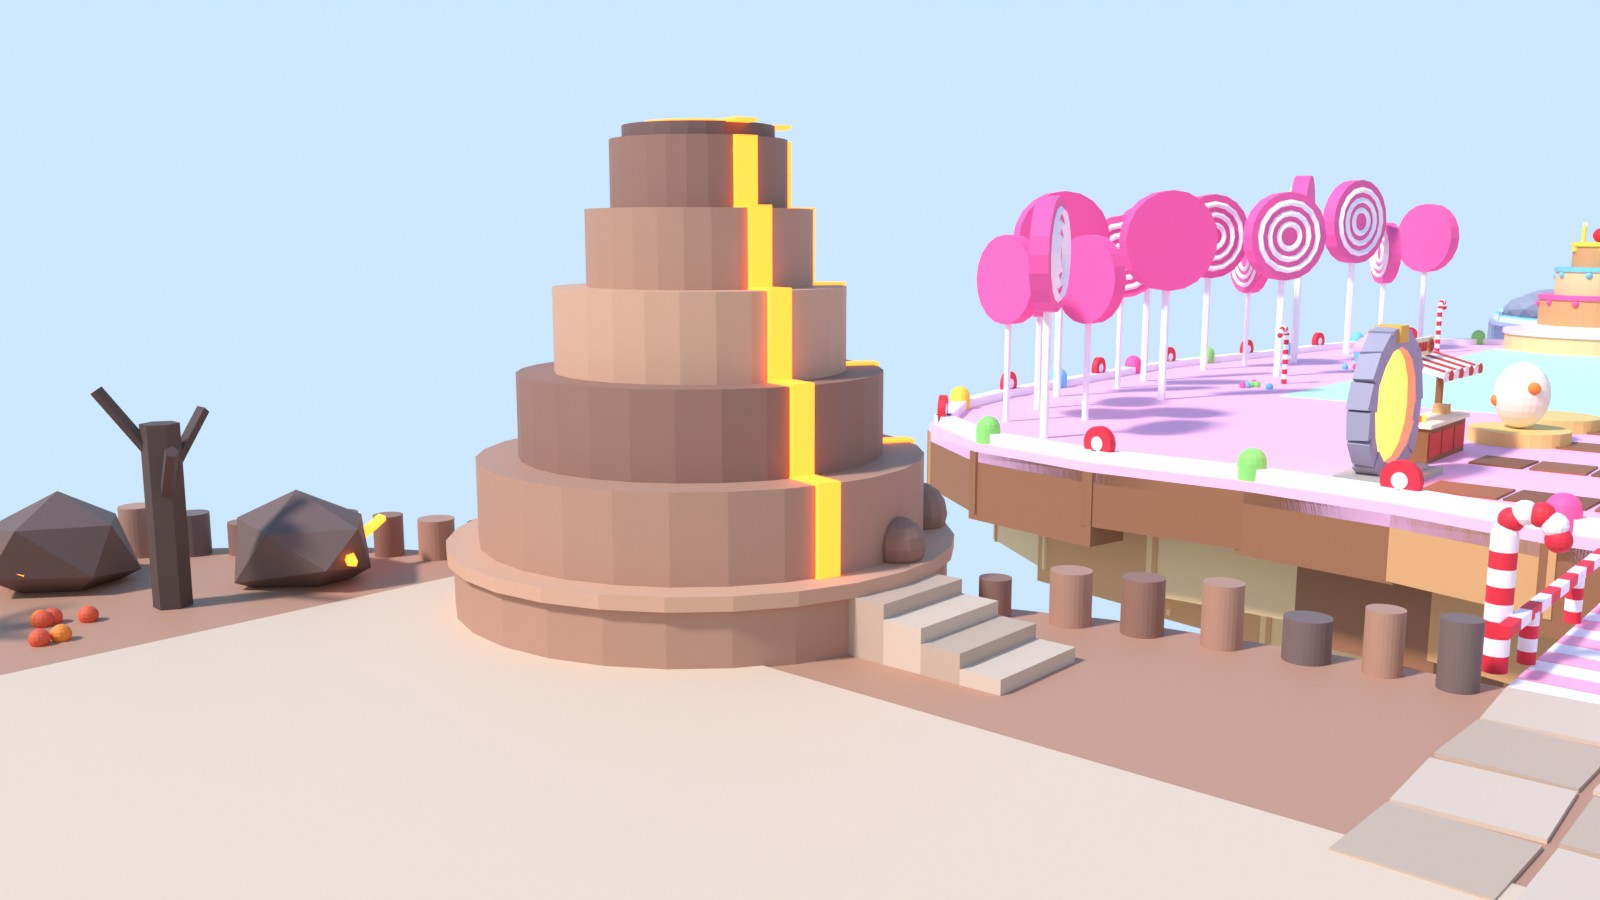
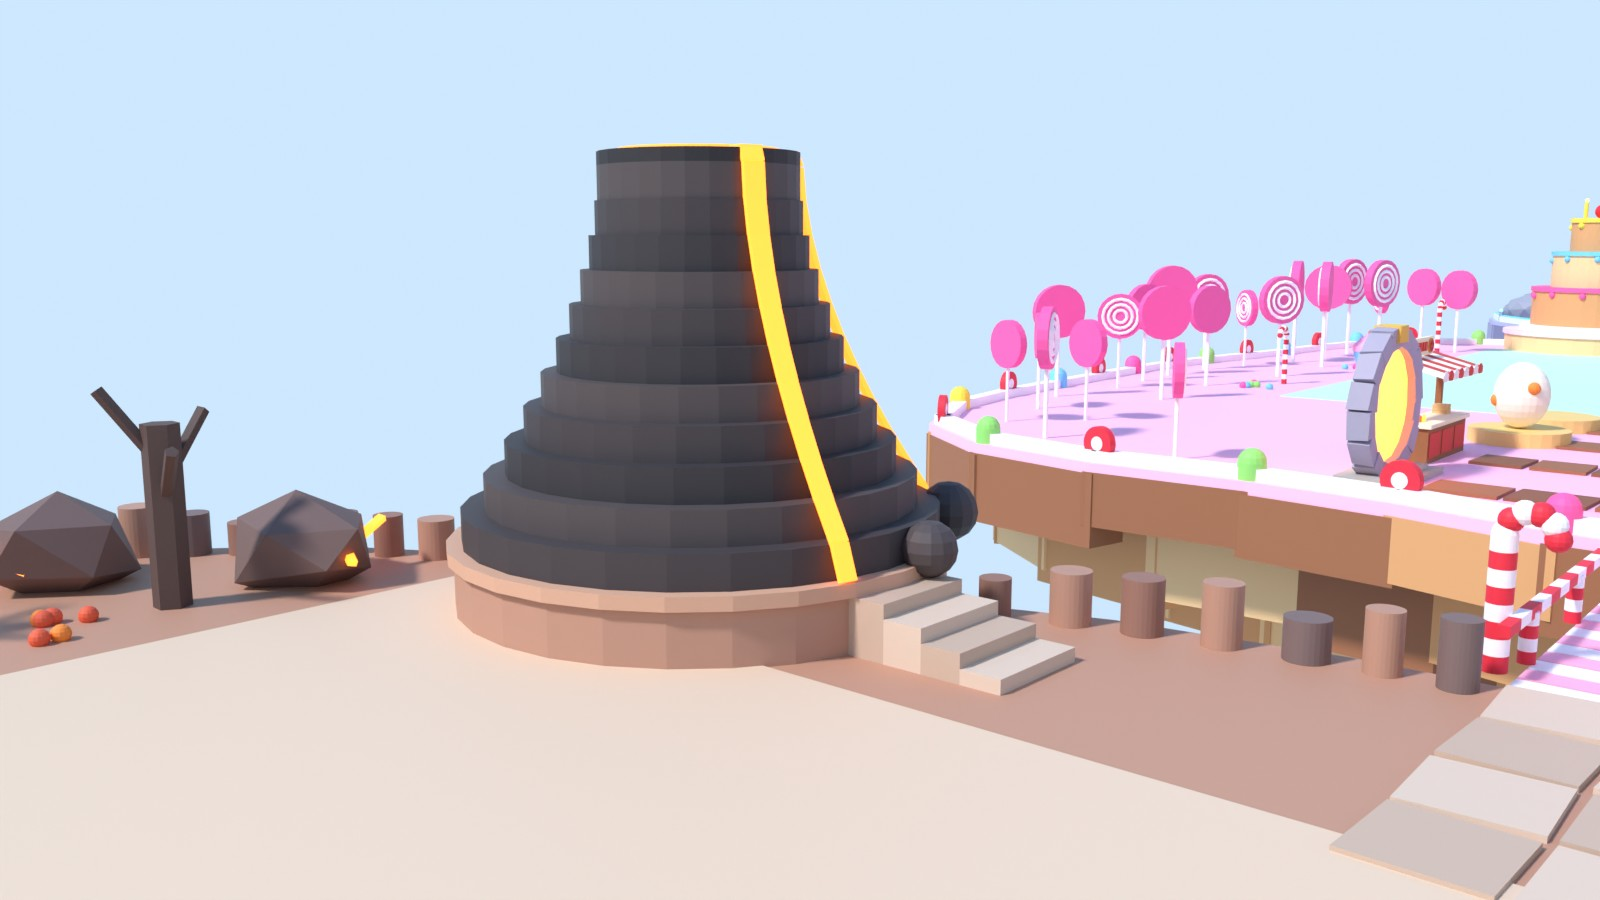
Turn the volcano landmark into a dark basalt cone with lava streams and smoke (#47)
Claude-Session: https://claude.ai/code/session_01ETPm5RE1JcG17QkWSNLqSt

diff --git a/docs/pc-todo.md b/docs/pc-todo.md
@@ -1206,3 +1206,12 @@ Klippenblöcke einer Schicht haben jetzt gestaffelte Oberkanten und minimal vers
 - [ ] Aus der Ferne (z. B. von der Spawn-Insel oder einer Brücke) auf die Nachbarinseln schauen: Felsringe flackern nicht.
 - [ ] Feld (Welt 1–7, Furchen auf dem Bauernhof), Wegplatten, Teich mit Bach und Lava-Risse (Vulkan) flackern auch aus der Ferne nicht.
 - [ ] Optik sonst unverändert: Klippe wirkt nicht stufig, Wegplatten/Teich stehen nicht sichtbar hoch, Figuren laufen normal über Weg und Feld.
+
+## #47 Vulkan als dunkler Basaltkegel
+
+Das Vulkan-Wahrzeichen (Welt 5) ist jetzt ein zulaufender Kegel aus 11 dunklen Basaltscheiben (konkave Flanke, breiter Kraterrand), drei Neon-Lavaströme laufen über die Kanten bis zum Boden, die Kraterlava bleibt, aus dem Krater steigt Rauch (ParticleEmitter am unsichtbaren Teil `VolcanoSmoke`). Vorschau: `assets/previews/islands/World5_Landmark.jpg`.
+
+- [ ] Vulkan-Insel ansehen: Vulkan wirkt dunkel (Basalt), nicht mehr wie eine helle Sandpyramide; die drei Lavaströme liegen sichtbar auf den Flanken (keine Lücken oder Schweben) und reichen bis zum Boden.
+- [ ] Kraterlava leuchtet wie bisher, Rauch steigt langsam aus dem Krater und verweht; Rauch wirkt nicht zu dicht und kostet keine spürbaren FPS.
+- [ ] Lavaströme und Kegel flackern nicht (auch nicht aus der Ferne), Felsbrocken am Fuß stehen sauber auf dem Boden, Weg/Treppe am Vulkan sind frei.
+- [ ] Inselrand (#46) flackert weiterhin nicht.
